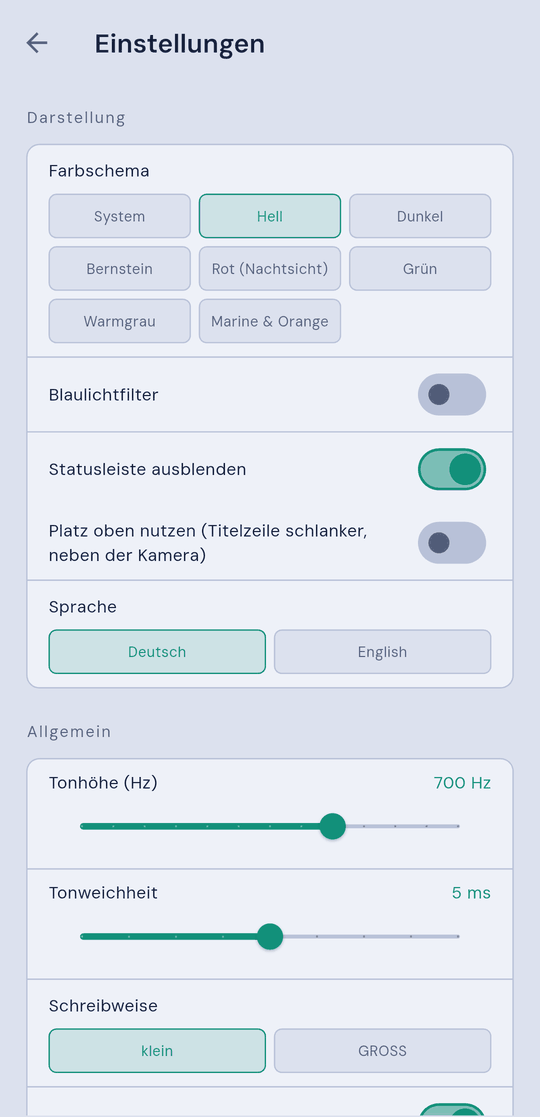
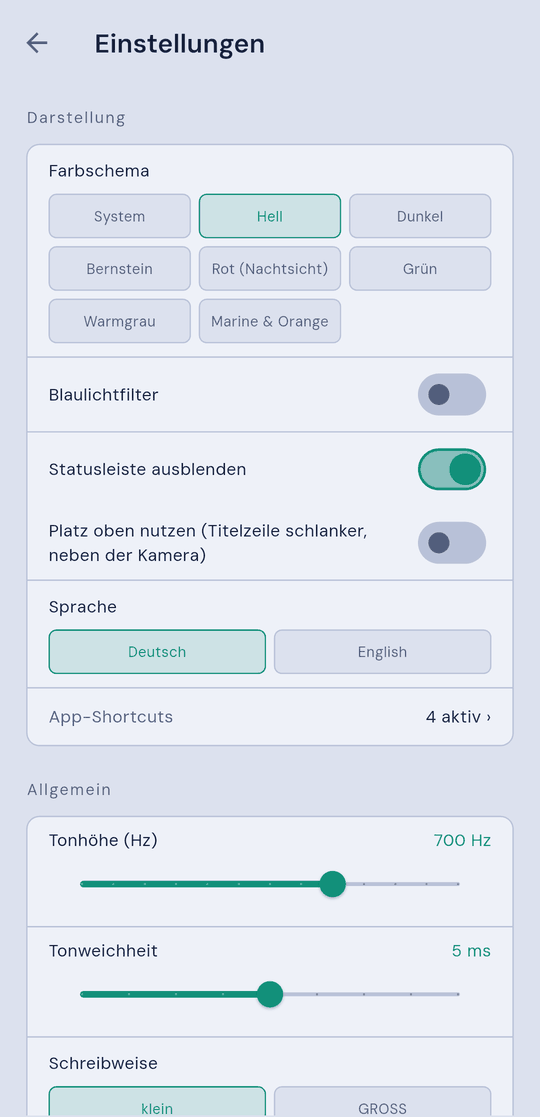
Manual v1.10.0: screenshots retaken, Prosigns image

diff --git a/docs/STATUS.md b/docs/STATUS.md
@@ -28,10 +28,7 @@ Done and checked on the test phone: launcher icons, README, landing page. Pendin
 - **Manual**: checked at v1.7.0 (no old icon in cover/info).
 
 ## Manual: pending for next release
-- `hear_progress.png`, `echo_progress.png` (both languages): new KPI "WPM eff." and a second speed curve in the Verlauf tab.
-- `settings_appearance.png` (both languages): new row "App-Shortcuts" (#151).
-- Prosign set (#156): `hear_start.png` (or the Hören start view shot) with the new chip; `tree_*.png` (prosign row below the tree); `chart_*.png` (four more prosign tiles); typing keyboard shot if there is one (prosign row). Both languages.
-- `qgroups_setup.png` (both languages): the Q-groups start view has only the tempo slider now (no spacing rows, no "eff.").
+(empty; v1.10.0 shots retaken 2026-10-25, `hear_prosigns.png` is new. `chart.png` shows only the letters at the top and did not change.)
 
 ## Prosign set (#156, branch `feature/prosign-charset`)
 Built, installed on the test phone, not yet checked there: chip order, tiles, typing keyboard row, chart, tree row, audio trainer with the set. The spoken meanings for AR, BT, HH, SOS are in (`res/raw`); still to hear in the app.

diff --git a/manual/manual_en.md b/manual/manual_en.md
@@ -577,6 +577,10 @@ shows one row of ten prosign keys. AR and BT are the same signals as `+` and `=`
 which the keyer cannot decode. The set cannot be edited; for your own mix use the
 **Practice set** with prosigns in angle brackets (`<AR><SOS>`).
 
+::: {.shots .one}
+![Prosigns character set in Listen: the ten prosigns as tiles](img/en/hear_prosigns.png)
+:::
+
 ### Practice set
 
 With the **Practice set** character set, an input field appears right on the

diff --git a/manual/manual_de.md b/manual/manual_de.md
@@ -600,6 +600,10 @@ löschen, und SOS, das der Keyer nicht dekodiert. Der Vorrat ist nicht
 editierbar; für eine eigene Mischung nimm das **Übungsset** mit Prosigns in
 spitzen Klammern (`<AR><SOS>`).
 
+::: {.shots .one}
+![Zeichenvorrat Prosigns in Hören: die zehn Prosigns als Kacheln](img/de/hear_prosigns.png)
+:::
+
 ### Übungsset
 
 Beim Zeichenvorrat **Übungsset** erscheint direkt auf der Startansicht ein
